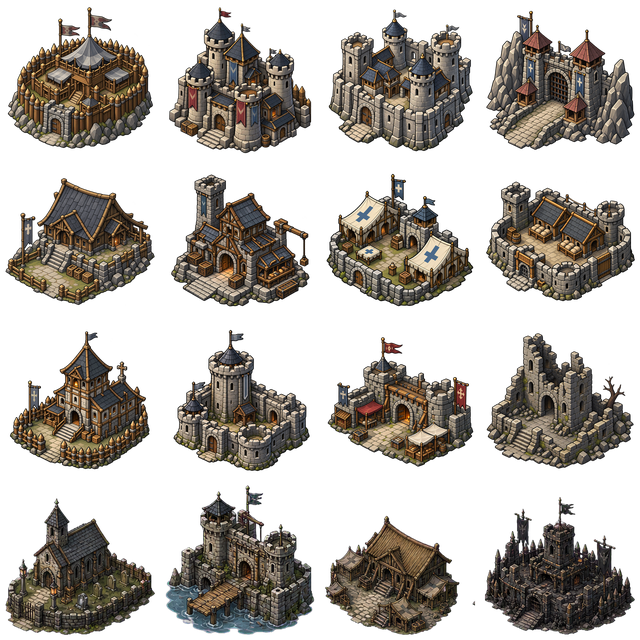
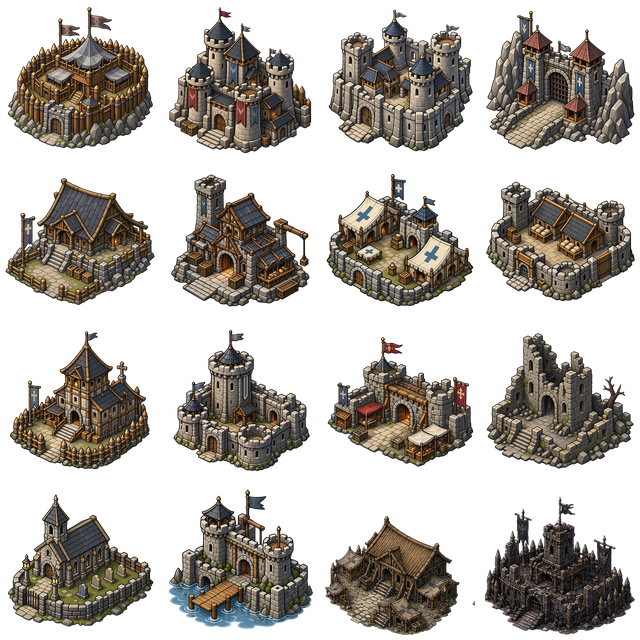
Bind cemetery and river gate landmarks with stable-source render provenance

Changed region(s): [[0.0, 0.75, 0.5, 1.0]]

diff --git a/tools/art/render_environment_review.py b/tools/art/render_environment_review.py
@@ -1,5 +1,6 @@
 """Rasterize actual renderer markup and measure its authored alpha silhouette."""
 import argparse
+import hashlib
 import json
 import os
 from pathlib import Path
@@ -18,12 +19,18 @@ def render(directory):
     svg = ET.parse(svg_path).getroot()
     defs = ET.SubElement(svg, f'{{{NS}}}defs')
     flatten_viewports(svg, defs)
+    source_paths = set()
     for image in svg.iter(f'{{{NS}}}image'):
         href = image.get('href')
         path = Path(unquote(urlparse(href).path)) if href.startswith('file:') else (directory / href).resolve()
         if not path.is_file():
             raise ValueError(f'missing renderer image: {path}')
+        source_paths.add(path.resolve())
         image.set('href', os.path.relpath(path, directory))
+    source_paths.add(ROOT / PACK / 'environment-builder-v1/manifest-environment-builder-v1.json')
+    source_paths.add(ROOT / 'tools/art/environment-overrides.json')
+    before = {str(path.relative_to(ROOT)): hashlib.sha256(path.read_bytes()).hexdigest()
+              for path in sorted(source_paths)}
     ET.register_namespace('', NS)
     ET.ElementTree(svg).write(svg_path, encoding='unicode')
     with tempfile.TemporaryDirectory() as profile:
@@ -52,6 +59,13 @@ def render(directory):
             asset['nativeVisibleHeightRange'] = [visible_height * scale for scale in asset['rendererScaleRange']]
             asset['nativeSampleOverhangBelowContact'] = (logical_bounds[3] - asset['anchor'][1]) * asset['sampleScale']
     report['offlineViewportNormalization'] = 'nested SVG viewports expressed as equivalent clip paths for Inkscape'
+    after = {str(path.relative_to(ROOT)): hashlib.sha256(path.read_bytes()).hexdigest()
+             for path in sorted(source_paths)}
+    if before != after:
+        raise ValueError('environment sources changed during review rendering; rerender after export finishes')
+    report['reviewSourceHashes'] = after
+    report['sourceStableAcrossRender'] = True
+    report['renderedPngSha256'] = hashlib.sha256((directory / 'native-contact.png').read_bytes()).hexdigest()
     report_path.write_text(json.dumps(report, indent=2) + '\n')
     return report
 
